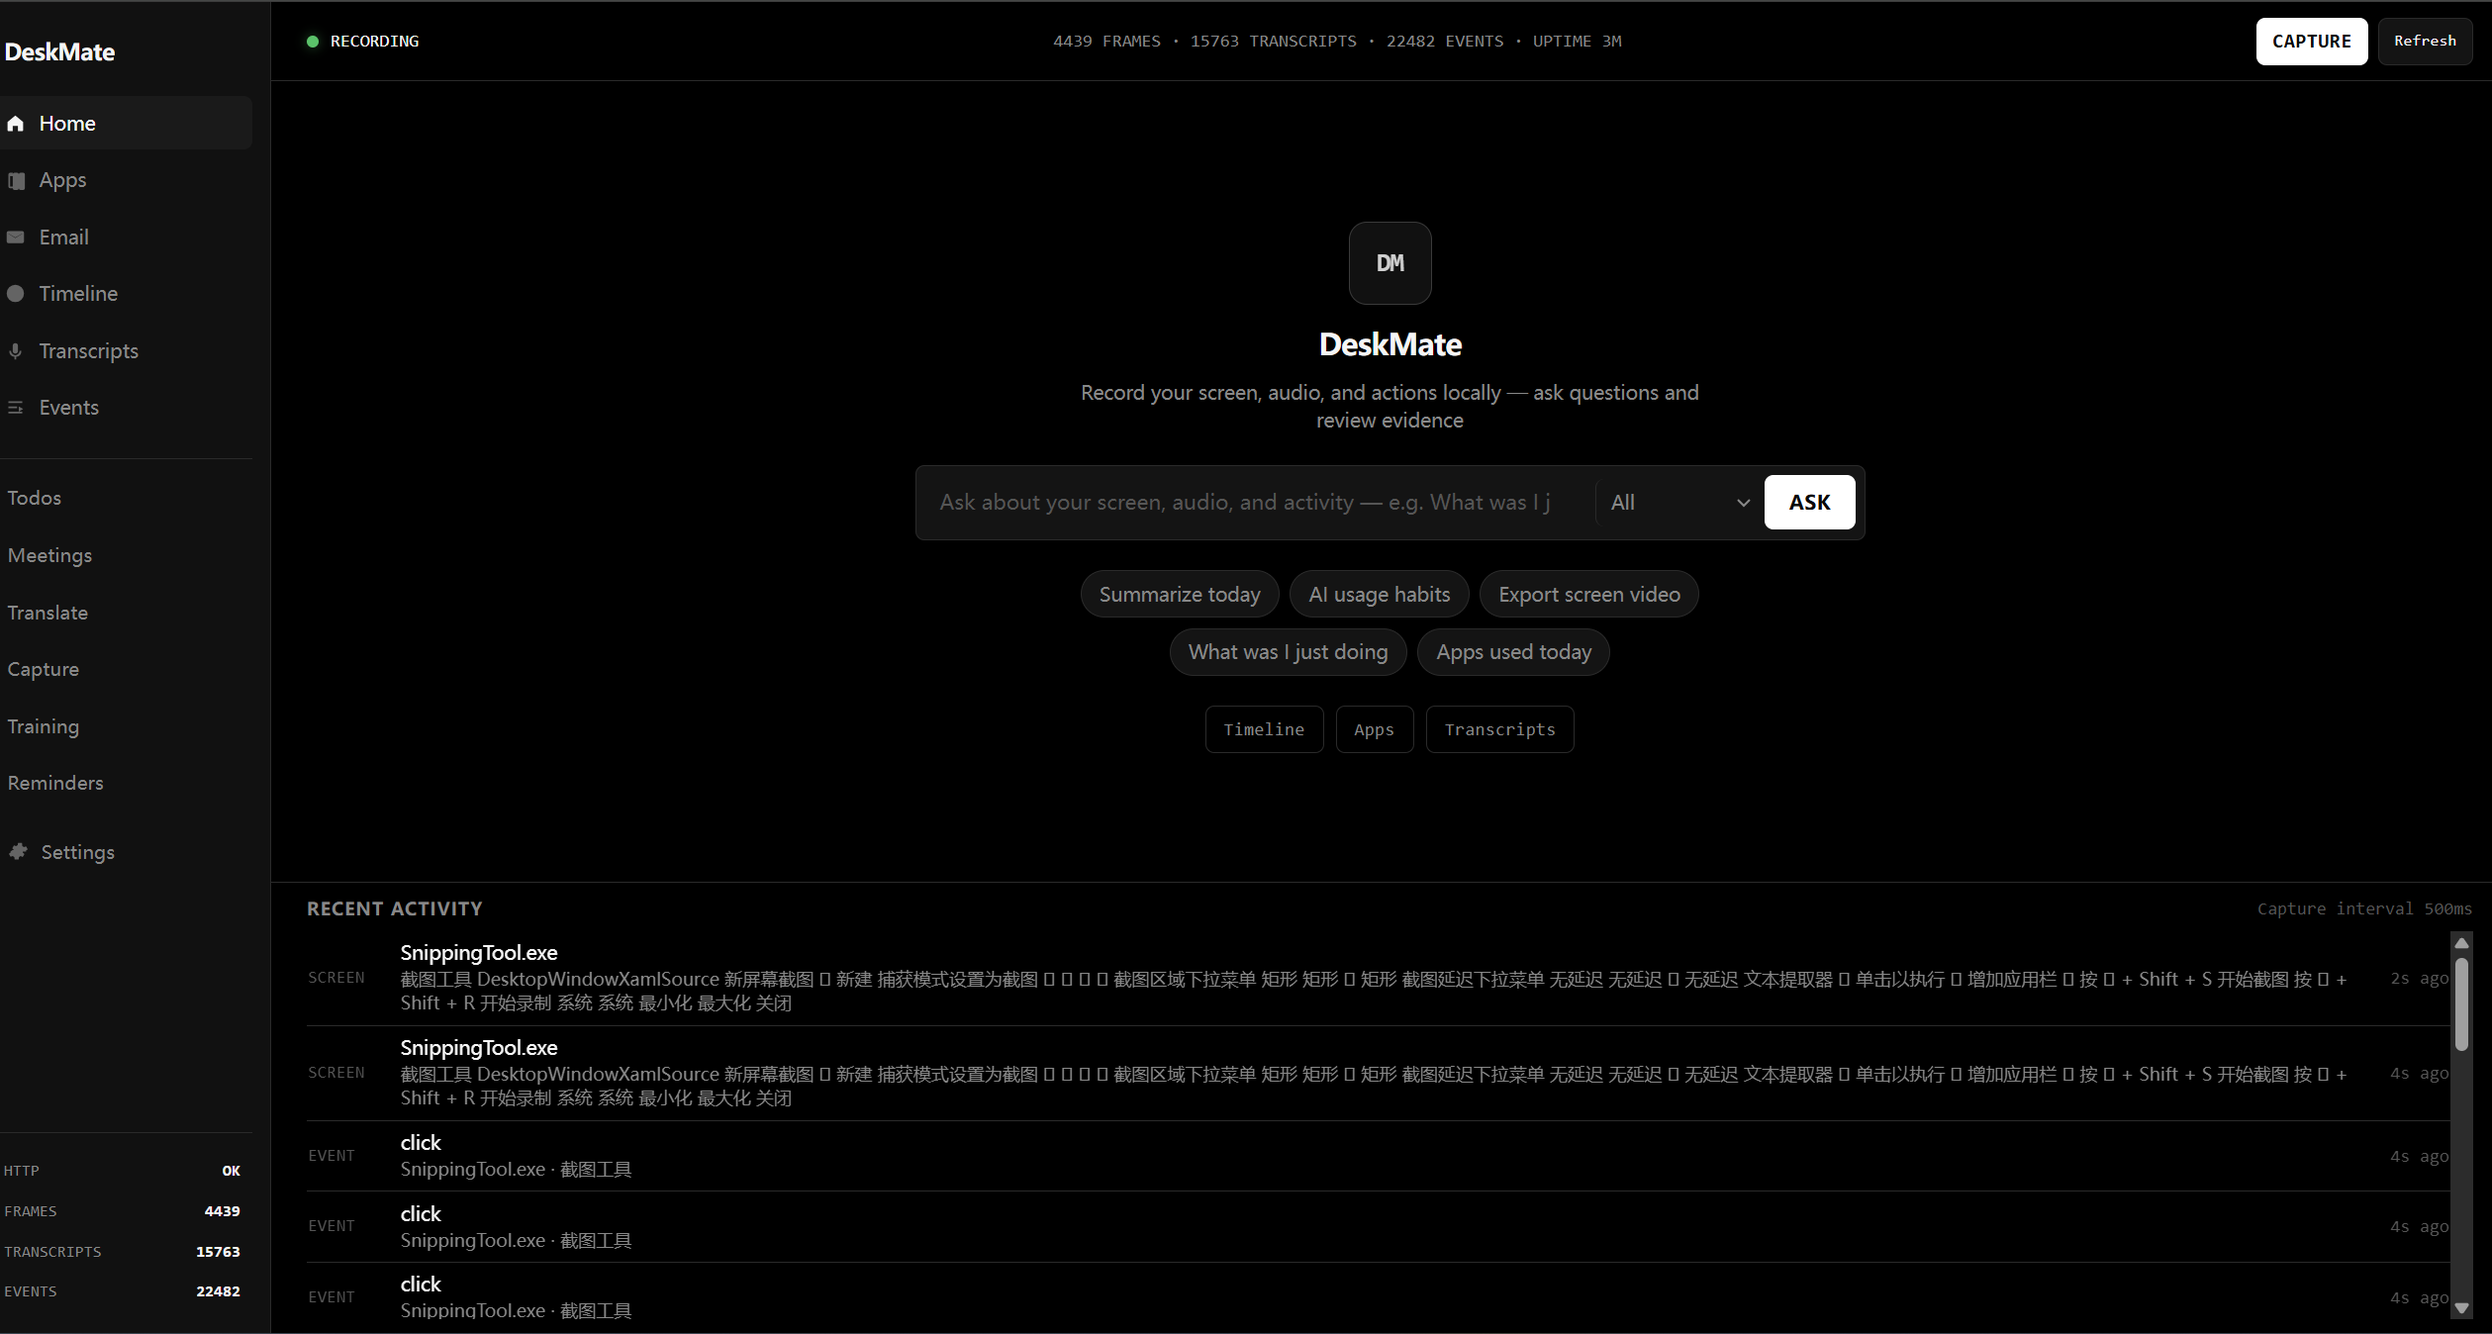
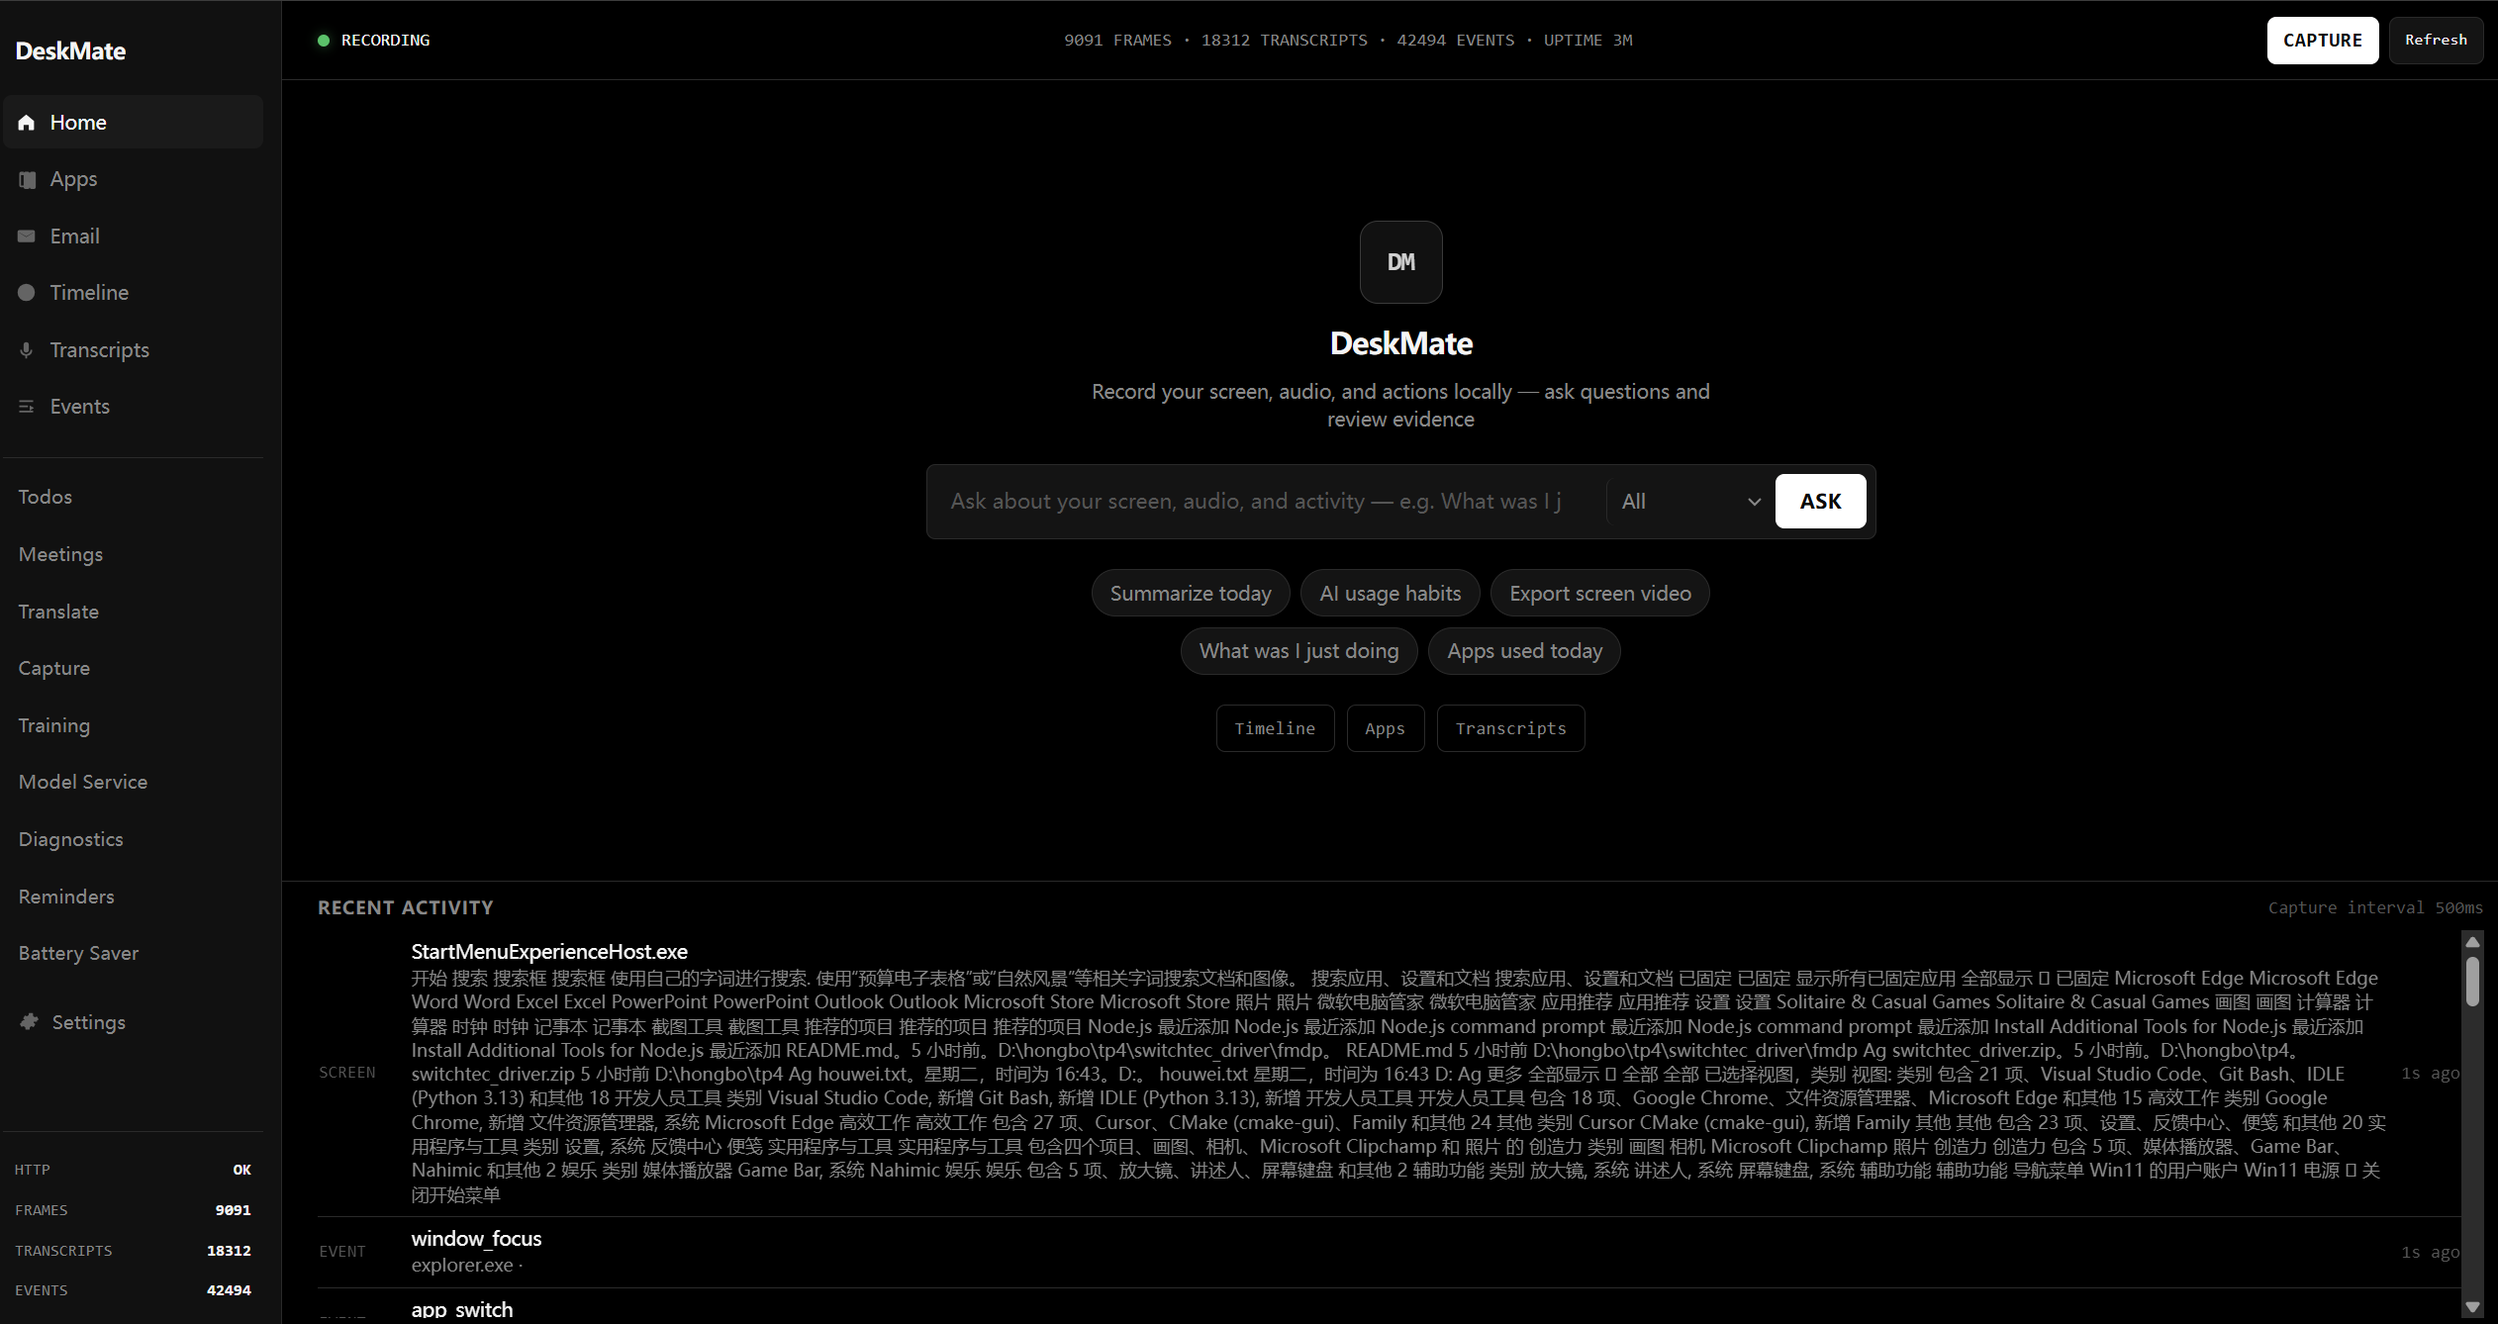
update readme

diff --git a/deskmate/ui/static/app.js b/deskmate/ui/static/app.js
@@ -4218,11 +4218,11 @@ async function summarizeMeeting(id) {
 const powerUi = { poll: null };
 
 const PW_WORKER_LABELS = {
-  "daemon-semantic-index": "语义索引",
-  "RedactReconciler": "脱敏扫描",
-  "event-driven-capture": "屏幕捕获 / OCR",
-  "daemon-heartbeat": "屏幕捕获（心跳）",
-  "daemon-retention": "数据清理",
+  "daemon-semantic-index": "power.worker.semanticIndex",
+  "RedactReconciler": "power.worker.redact",
+  "event-driven-capture": "power.worker.captureOcr",
+  "daemon-heartbeat": "power.worker.heartbeat",
+  "daemon-retention": "power.worker.retention",
 };
 
 function renderPowerStatus(s) {
@@ -4236,38 +4236,40 @@ function renderPowerStatus(s) {
   const main = $("#pwCapMain");
   const sub = $("#pwCapSub");
   if (!s.available) {
-    main.textContent = "本机不支持";
-    sub.textContent = "未检测到 Intel 平台的线程级功耗调度能力。";
+    main.textContent = T("power.unsupported.title");
+    sub.textContent = T("power.unsupported.subtitle");
   } else if (s.source === "ac") {
-    main.textContent = pct != null ? `电量 ${pct}%` : "已接电源";
-    sub.textContent = "接电中 · 后台任务全速运行（不省电）";
+    main.textContent = pct != null ? T("power.batteryLevel", { pct }) : T("power.pluggedIn");
+    sub.textContent = T("power.onAcSubtitle");
   } else if (s.source === "battery") {
-    main.textContent = pct != null ? `电量 ${pct}%` : "使用电池";
-    sub.textContent = s.eco_active ? "使用电池 · 省电中" : "使用电池";
+    main.textContent = pct != null ? T("power.batteryLevel", { pct }) : T("power.onBattery");
+    sub.textContent = s.eco_active ? T("power.onBatteryEco") : T("power.onBattery");
   } else {
     main.textContent = "—";
-    sub.textContent = "无法读取电源状态";
+    sub.textContent = T("power.readFailed");
   }
 
   if (s.eco_active) {
-    ecoPill.textContent = `🌿 省电中 · ${s.eco_thread_count} 个后台任务在 E 核`;
+    ecoPill.textContent = T("power.ecoPill", { n: s.eco_thread_count });
     ecoPill.className = "pw-pill eco";
   } else if (s.source === "ac") {
-    ecoPill.textContent = "性能模式";
+    ecoPill.textContent = T("power.performanceMode");
     ecoPill.className = "pw-pill ac";
   } else {
-    ecoPill.textContent = "未省电";
+    ecoPill.textContent = T("power.notSaving");
     ecoPill.className = "pw-pill";
   }
 
   const box = $("#pwWorkers");
   const eco = s.eco_active;
   box.innerHTML = (s.eco_targets || []).map((name) => {
-    const label = PW_WORKER_LABELS[name] || name;
-    const tag = eco ? `<span class="pw-tag e">E 核 · 省电</span>` : `<span class="pw-tag idle">系统默认</span>`;
+    const label = PW_WORKER_LABELS[name] ? T(PW_WORKER_LABELS[name]) : name;
+    const tag = eco
+      ? `<span class="pw-tag e">${capEscape(T("power.tag.eco"))}</span>`
+      : `<span class="pw-tag idle">${capEscape(T("power.tag.default"))}</span>`;
     return `<div class="pw-row"><span>${capEscape(label)}</span>${tag}</div>`;
-  }).join("") || '<div class="muted">无可省电的后台任务</div>';
-  box.innerHTML += `<div class="pw-row"><span>Ask 对话</span><span class="pw-tag p">P 核 · 性能</span></div>`;
+  }).join("") || `<div class="muted">${capEscape(T("power.noWorkers"))}</div>`;
+  box.innerHTML += `<div class="pw-row"><span>${capEscape(T("power.askConversation"))}</span><span class="pw-tag p">${capEscape(T("power.tag.performance"))}</span></div>`;
 
   const sav = $("#pwSavings");
   const est = $("#pwEstNote");
@@ -4283,10 +4285,10 @@ function renderPowerStatus(s) {
     const P = 0.08, S = 0.45;
     const FACTOR = P * S;
     const extra = Math.round(rt * FACTOR / 60);
-    sav.textContent = `约 +${extra} 分钟（预估）`;
+    sav.textContent = T("power.extraRuntime", { minutes: extra });
     est.innerHTML = "";
   } else if (eco) {
-    sav.textContent = "省电生效中";
+    sav.textContent = T("power.ecoActive");
     est.innerHTML = "";
   } else {
     sav.textContent = "—";
@@ -4297,15 +4299,15 @@ function renderPowerStatus(s) {
 function renderPowerApps(data) {
   const box = $("#pwAppsList");
   if (!box) return;
-  if (!data.available) { box.innerHTML = '<p class="muted">本机不支持应用功耗控制。</p>'; return; }
+  if (!data.available) { box.innerHTML = `<p class="muted">${capEscape(T("power.apps.unsupported"))}</p>`; return; }
   const apps = data.apps || [];
-  if (!apps.length) { box.innerHTML = '<p class="muted">没有检测到可控制的应用窗口。</p>'; return; }
+  if (!apps.length) { box.innerHTML = `<p class="muted">${capEscape(T("power.apps.empty"))}</p>`; return; }
   box.innerHTML = apps.map((a) => {
-    const fg = a.is_foreground ? '<span class="pw-fg-badge">正在用</span>' : "";
+    const fg = a.is_foreground ? `<span class="pw-fg-badge">${capEscape(T("power.apps.foreground"))}</span>` : "";
     const right = a.can_throttle
       ? `<label class="pw-sw"><input type="checkbox" data-pid="${a.pid}" ${a.eco ? "checked" : ""} /><span class="pw-track"></span></label>`
-      : '<span class="pw-no-perm">无法控制（需管理员）</span>';
-    const ecoTag = a.eco ? '<span class="pw-eco-badge">E 核</span>' : "";
+      : `<span class="pw-no-perm">${capEscape(T("power.apps.noPermission"))}</span>`;
+    const ecoTag = a.eco ? `<span class="pw-eco-badge">${capEscape(T("power.apps.ecoBadge"))}</span>` : "";
     return `<div class="pw-app-row"><div class="pw-app-meta"><span class="pw-app-name">${capEscape(a.name)}</span>${fg} ${ecoTag}<div class="pw-app-title">${capEscape(a.title)}</div></div>${right}</div>`;
   }).join("");
 
@@ -4317,7 +4319,7 @@ function renderPowerApps(data) {
         if (cb.checked) {
           try {
             await api("/power/apps/eco", { method: "POST", body: JSON.stringify({ pid }) });
-          } catch (e) { cb.checked = false; alert("无法压制该应用（可能需要管理员权限）"); }
+          } catch (e) { cb.checked = false; alert(T("power.apps.ecoFailed")); }
         } else {
           await api("/power/apps/restore", { method: "POST", body: JSON.stringify({ pid }) });
         }
@@ -4371,10 +4373,10 @@ function renderPowerCapsule(s) {
   if (s.percent != null && fill) fill.style.width = Math.max(8, Math.min(100, s.percent)) + "%";
 
   if (s.source === "battery") {
-    const p = s.percent != null ? `${s.percent}%` : "电池";
+    const p = s.percent != null ? `${s.percent}%` : T("power.capsule.battery");
     text.textContent = s.eco_active ? `🌿 ${p}` : `🔋 ${p}`;
   } else {
-    text.textContent = s.percent != null ? `🔌 ${s.percent}%` : "🔌 接电";
+    text.textContent = s.percent != null ? `🔌 ${s.percent}%` : `🔌 ${T("power.capsule.plugged")}`;
   }
   cap.classList.toggle("eco", !!s.eco_active);
 }

diff --git a/deskmate/ui/static/i18n.js b/deskmate/ui/static/i18n.js
@@ -31,6 +31,37 @@
       "power.apps.restoreAll": "全部恢复",
       "power.apps.intro": "勾选你想让它“慢下来省电”的应用，DeskMate 会把它压到能效核（E 核）。你正在用的前台应用默认不勾，避免卡顿——但你仍可手动勾选。",
       "power.loading": "加载中…",
+      "power.worker.semanticIndex": "语义索引",
+      "power.worker.redact": "脱敏扫描",
+      "power.worker.captureOcr": "屏幕捕获 / OCR",
+      "power.worker.heartbeat": "屏幕捕获（心跳）",
+      "power.worker.retention": "数据清理",
+      "power.unsupported.title": "本机不支持",
+      "power.unsupported.subtitle": "未检测到 Intel 平台的线程级功耗调度能力。",
+      "power.batteryLevel": "电量 {pct}%",
+      "power.pluggedIn": "已接电源",
+      "power.onAcSubtitle": "接电中 · 后台任务全速运行（不省电）",
+      "power.onBattery": "使用电池",
+      "power.onBatteryEco": "使用电池 · 省电中",
+      "power.readFailed": "无法读取电源状态",
+      "power.ecoPill": "🌿 省电中 · {n} 个后台任务在 E 核",
+      "power.performanceMode": "性能模式",
+      "power.notSaving": "未省电",
+      "power.tag.eco": "E 核 · 省电",
+      "power.tag.default": "系统默认",
+      "power.tag.performance": "P 核 · 性能",
+      "power.noWorkers": "无可省电的后台任务",
+      "power.askConversation": "Ask 对话",
+      "power.extraRuntime": "约 +{minutes} 分钟（预估）",
+      "power.ecoActive": "省电生效中",
+      "power.apps.unsupported": "本机不支持应用功耗控制。",
+      "power.apps.empty": "没有检测到可控制的应用窗口。",
+      "power.apps.foreground": "正在用",
+      "power.apps.noPermission": "无法控制（需管理员）",
+      "power.apps.ecoBadge": "E 核",
+      "power.apps.ecoFailed": "无法压制该应用（可能需要管理员权限）",
+      "power.capsule.battery": "电池",
+      "power.capsule.plugged": "接电",
       "doctor.title": "诊断",
       "doctor.help": "针对 DeskMate 常见的环境问题做自检——Ollama 后端与运行时、活动模型、通知、代理、后台进程、录制时效、磁盘空间和数据库。",
       "doctor.refresh": "运行检查",
@@ -545,7 +576,7 @@
       "nav.models": "Model Service",
       "nav.doctor": "Diagnostics",
       "nav.reminders": "Reminders",
-      "nav.power": "续航管家",
+      "nav.power": "Battery Saver",
       "view.power.title": "Battery Saver",
       "view.power.subtitle": "On battery, push background AI onto efficient cores — and pick apps to throttle",
       "power.reading": "Reading battery…",
@@ -557,6 +588,37 @@
       "power.apps.restoreAll": "Restore all",
       "power.apps.intro": "Tick the apps you want to slow down to save power; DeskMate pushes them onto efficient cores (E-cores). The app you're currently using is left unticked by default to avoid lag — but you can still tick it.",
       "power.loading": "Loading…",
+      "power.worker.semanticIndex": "Semantic index",
+      "power.worker.redact": "Redaction scan",
+      "power.worker.captureOcr": "Screen capture / OCR",
+      "power.worker.heartbeat": "Screen capture (heartbeat)",
+      "power.worker.retention": "Data cleanup",
+      "power.unsupported.title": "Not supported",
+      "power.unsupported.subtitle": "Thread-level power scheduling is not available on this machine.",
+      "power.batteryLevel": "Battery {pct}%",
+      "power.pluggedIn": "Plugged in",
+      "power.onAcSubtitle": "Plugged in · background tasks run at full speed",
+      "power.onBattery": "On battery",
+      "power.onBatteryEco": "On battery · saving power",
+      "power.readFailed": "Unable to read power status",
+      "power.ecoPill": "🌿 Saving power · {n} background task(s) on E-cores",
+      "power.performanceMode": "Performance mode",
+      "power.notSaving": "Not saving",
+      "power.tag.eco": "E-core · saving",
+      "power.tag.default": "System default",
+      "power.tag.performance": "P-core · performance",
+      "power.noWorkers": "No background tasks available for power saving",
+      "power.askConversation": "Ask conversation",
+      "power.extraRuntime": "About +{minutes} min (projected)",
+      "power.ecoActive": "Power saving active",
+      "power.apps.unsupported": "App power control is not supported on this machine.",
+      "power.apps.empty": "No controllable app windows detected.",
+      "power.apps.foreground": "In use",
+      "power.apps.noPermission": "Cannot control (admin required)",
+      "power.apps.ecoBadge": "E-core",
+      "power.apps.ecoFailed": "Could not throttle this app (admin permission may be required).",
+      "power.capsule.battery": "Battery",
+      "power.capsule.plugged": "Plugged in",
       "doctor.title": "Diagnostics",
       "doctor.help": "Self-checks for the environment issues DeskMate commonly hits — Ollama backend & runtime, active model, notifications, proxy, background workers, capture freshness, disk space and database.",
       "doctor.refresh": "Run checks",

diff --git a/deskmate/ui/static/index.html b/deskmate/ui/static/index.html
@@ -4,7 +4,7 @@
     <meta charset="utf-8" />
     <meta name="viewport" content="width=device-width, initial-scale=1" />
     <title>DeskMate</title>
-    <link rel="stylesheet" href="/ui/assets/app.css?v=20260623-power5" />
+    <link rel="stylesheet" href="/ui/assets/app.css?v=20260623-power-i18n1" />
     <style>
       /* Scoped styles for the Capture & Unified Timeline view */
       #view-capture .cap-card { background: var(--surface); border: 1px solid var(--line); border-radius: var(--radius); padding: 18px; margin-bottom: 18px; }
@@ -1321,7 +1321,7 @@
       </article>
     </template>
 
-    <script src="/ui/assets/i18n.js?v=20260623-power5" defer></script>
-    <script src="/ui/assets/app.js?v=20260623-power5" defer></script>
+    <script src="/ui/assets/i18n.js?v=20260623-power-i18n1" defer></script>
+    <script src="/ui/assets/app.js?v=20260623-power-i18n1" defer></script>
   </body>
 </html>

diff --git a/README.md b/README.md
@@ -222,6 +222,7 @@ come back when needed:
 | Live speech translation | Translate as you speak, shown in the UI | [docs/18-live-translation.md](docs/18-live-translation.md) |
 | Video-call detection | Auto-detect Teams/Zoom/Meet + meeting notes | [docs/09-meeting-workflow.md](docs/09-meeting-workflow.md) |
 | Gmail / Outlook integration | Search real mailboxes in Ask and apps | [docs/11-connections.md](docs/11-connections.md) |
+| Battery Saver / 续航管家 | On battery, move background AI work and user-selected apps onto efficient cores; the SPA view and live status text are localized in Chinese/English | [docs/22-power-manager.md](docs/22-power-manager.md) |
 | Local LoRA fine-tuning | Train a small model on your data (incl. Intel iGPU) | [docs/16-learning-training.md](docs/16-learning-training.md) |
 | All technical design docs | Architecture of every module | [docs/README.md](docs/README.md) |
 
@@ -276,6 +277,7 @@ deskmate ui --no-run-daemon  # view existing data only, don't start new recordin
 | Meetings | Detected video calls, transcripts, one-click summary |
 | Training | Local LoRA fine-tuning |
 | My Apps | Run LLM apps; connect Gmail/Outlook in Settings |
+| Battery Saver / 续航管家 | EcoQoS battery saver for background AI workers and selected apps, with Chinese/English UI text |
 | Settings | Config and monitors |
 
 ### CLI
